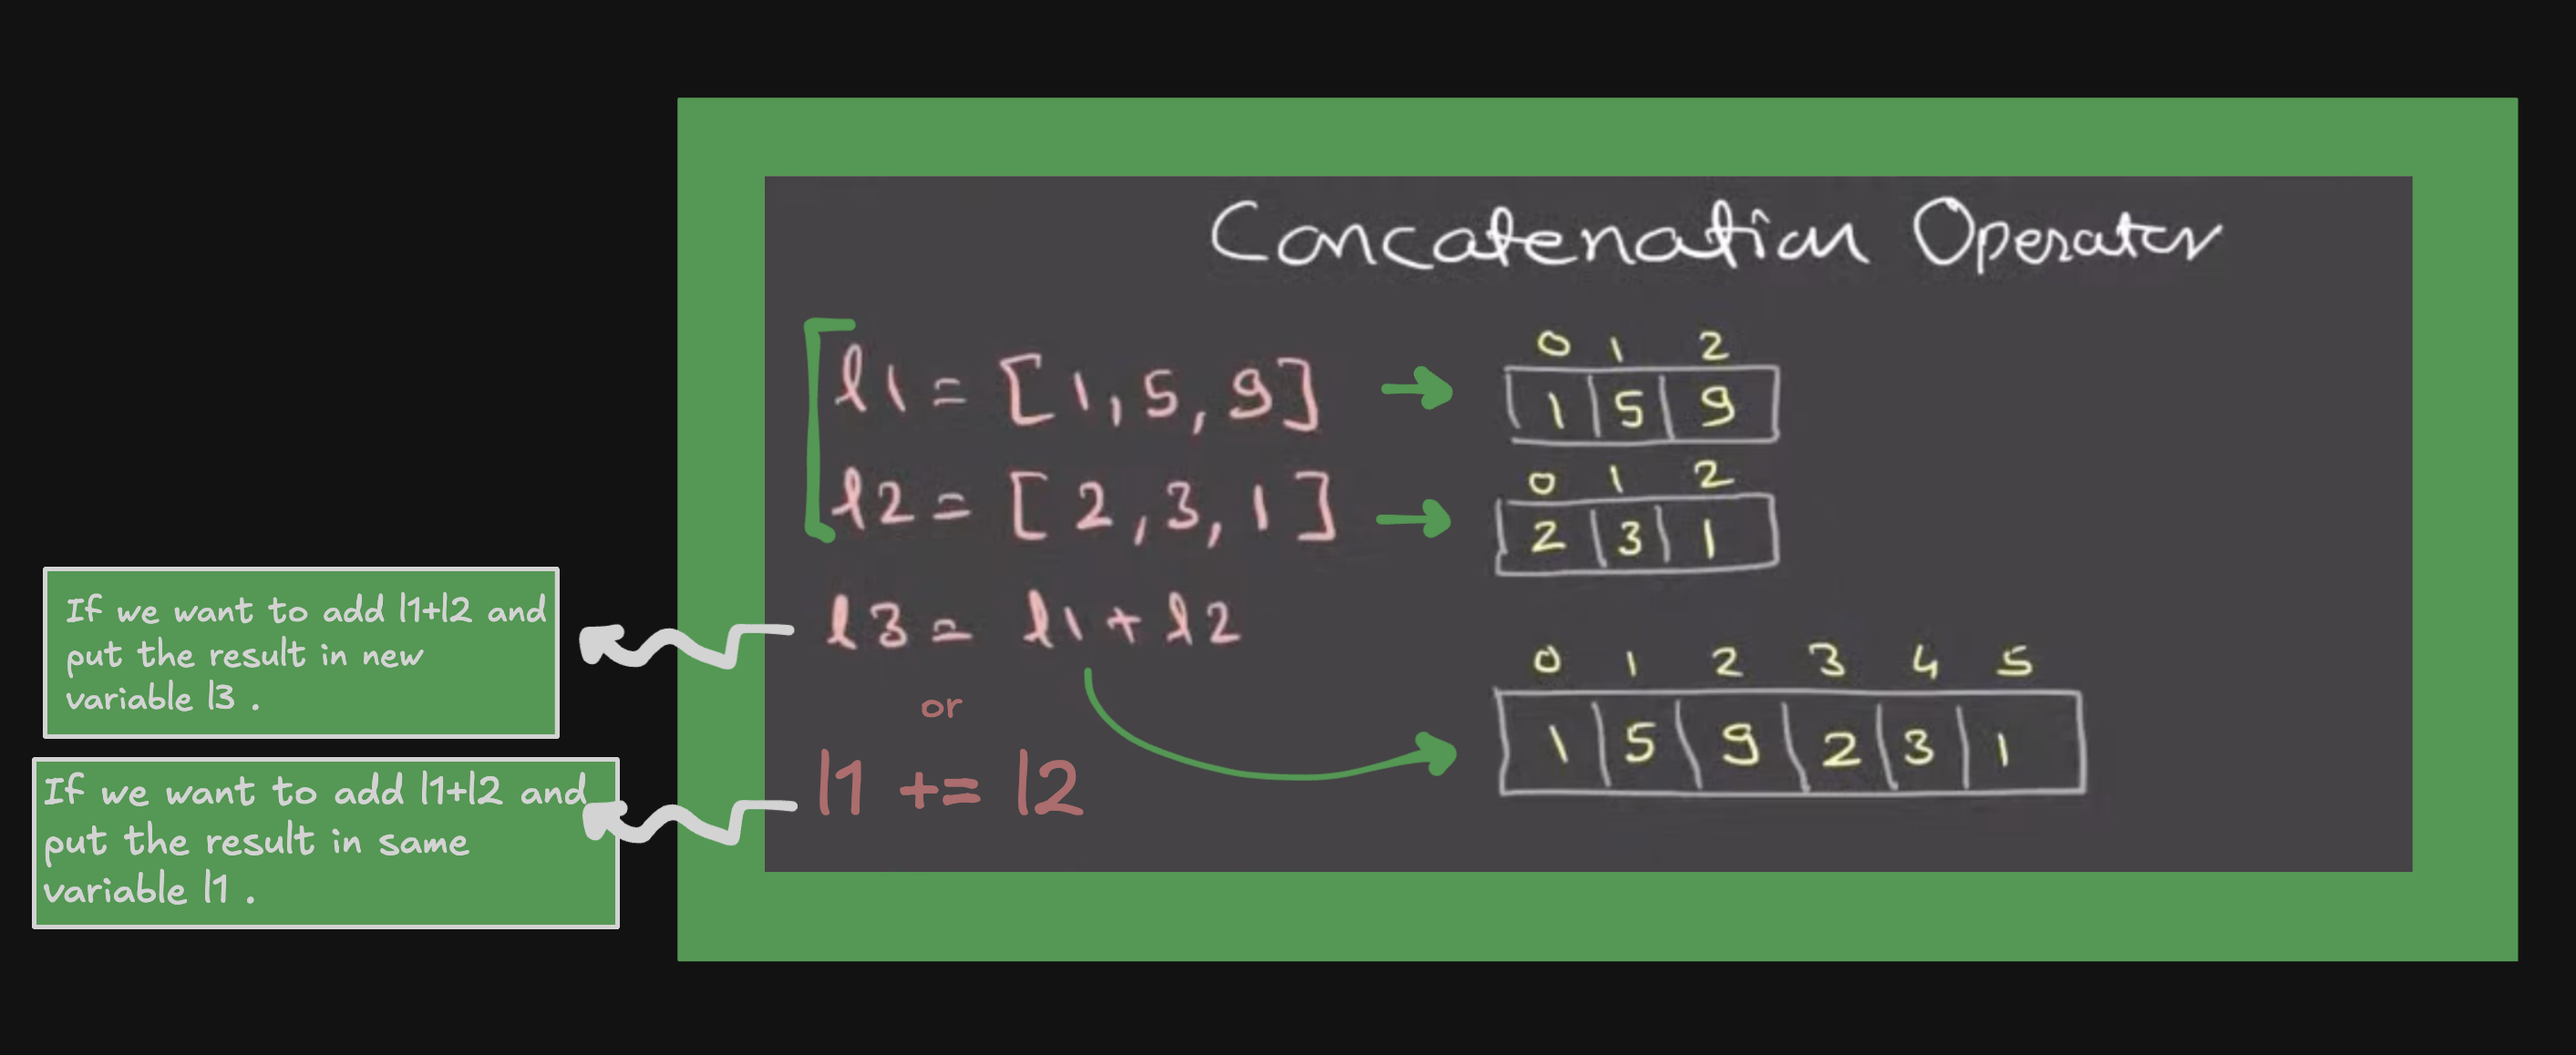
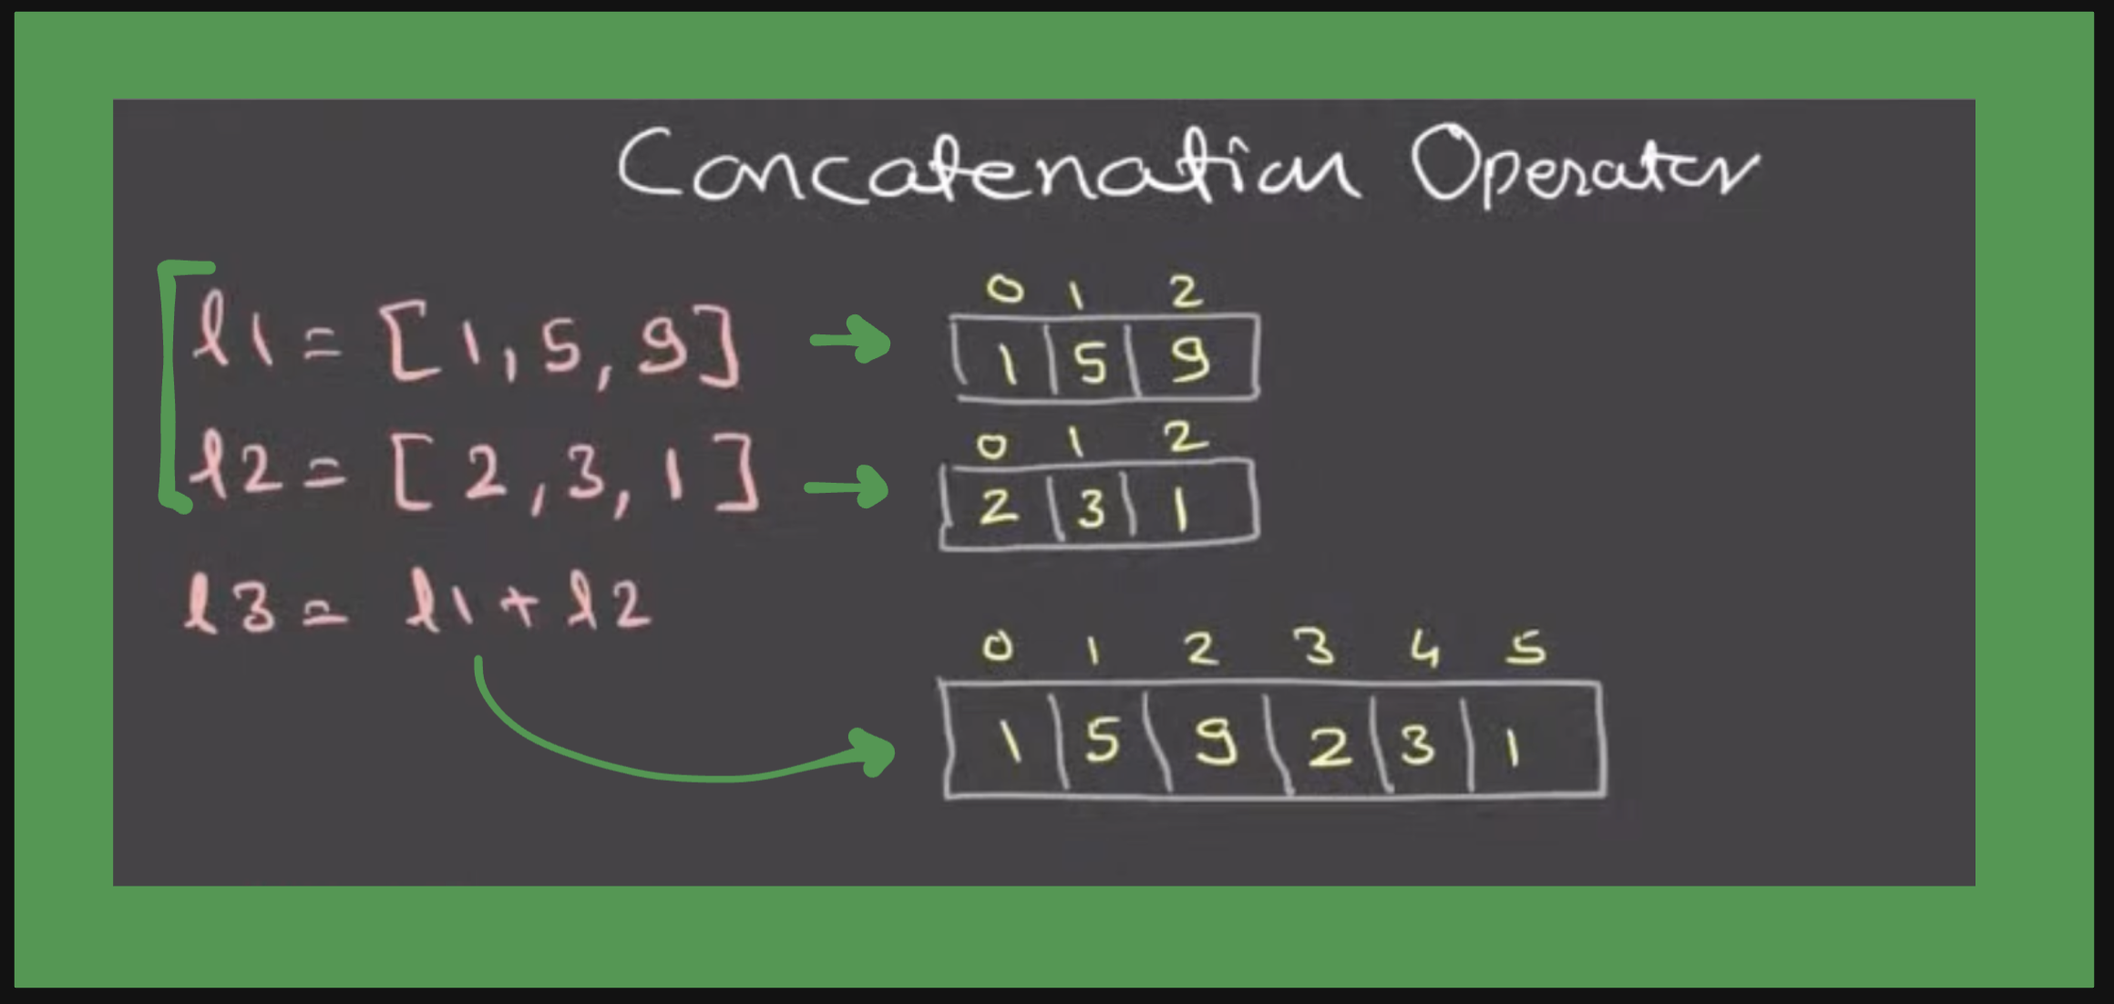
Tuple done

diff --git a/tuple.md b/tuple.md
@@ -1,0 +1,33 @@
+🟦 tuple 
+tuple is a class
+tuple is iterable 
+tuple is immutable (🟢 This is the main difference between a list and a tuple yaani humne ek baar tuple declare kar diya, toh hum usme changes nahi kar sakte hai | We cannot append , insert or remove any element from the tuple )
+tuple can store heterogeneous elements (like list do)
+
+❇ iMPORTANT pOINT
+tuple and list dono 100% same hi hai , dono hi iterable hai , dono me hi indexing hoti hai , dono hi class hai , dono hi heterogeneous elements store kar sakte hai BUT only one thing that makes it different which is mutability . "List is mutable" but "Tuple is immutable".
+
+🟨 How to declare and initialise tuple object ?
+[This is how we initialise and declare a tuple](/Images/79.png)
+[Some Important Points](/Images/80.png) and [JUST TO SEE](/Images/81.png)
+
+🟨 Concept of Indexing and HOW TO ACCESS ELEMENTS of a tuple ?
+[Concept of indexing is 100% same like list](/Images/82.png)
+[This is how we can access the elements of a tuple same like list ](/Images/83.png) and [](/Images/84.png)
+
+🟨 Built-in Methods ?
+[We have 5 built in methods  len()  , min() , max() , sum() , sorted()  ](/Images/86.png)
+
+🟨 Concatenation , Repetition and Comparison Operator ?
+[](/Images/87.png)
+
+🟨 Tuple objects method ?
+[There are only two object methods in tuple : index() and count() .Kyuki tuple immutable hota hai , toh isme hum append , insert etc.. nahi kar sakte hai , Toh isiliye isme wo object methods bhi nahi hai like List have as it is mutable. It has only two methods that we can use ](/Images/88.png)
+
+🟨 Slicing operator in Tuple ?
+[](/Images/89.png)
+
+🟨 tuple() function ?
+[It takes any iterable as input , converts and returns a "tuple" in output ](/Images/90.png)
+
+-------------------------------------------------------//---------------------------------------------------------------

diff --git a/range.md b/range.md
@@ -52,3 +52,6 @@ To understand range , we need to start from iterables.
        range(2,6) iska matlab range(2,6,1)
 
     -> Example : [](/Images/42.png)
+
+🟡 How to access range elements ?
+[We can access elements of a range same like list ](/Images/85.png)
